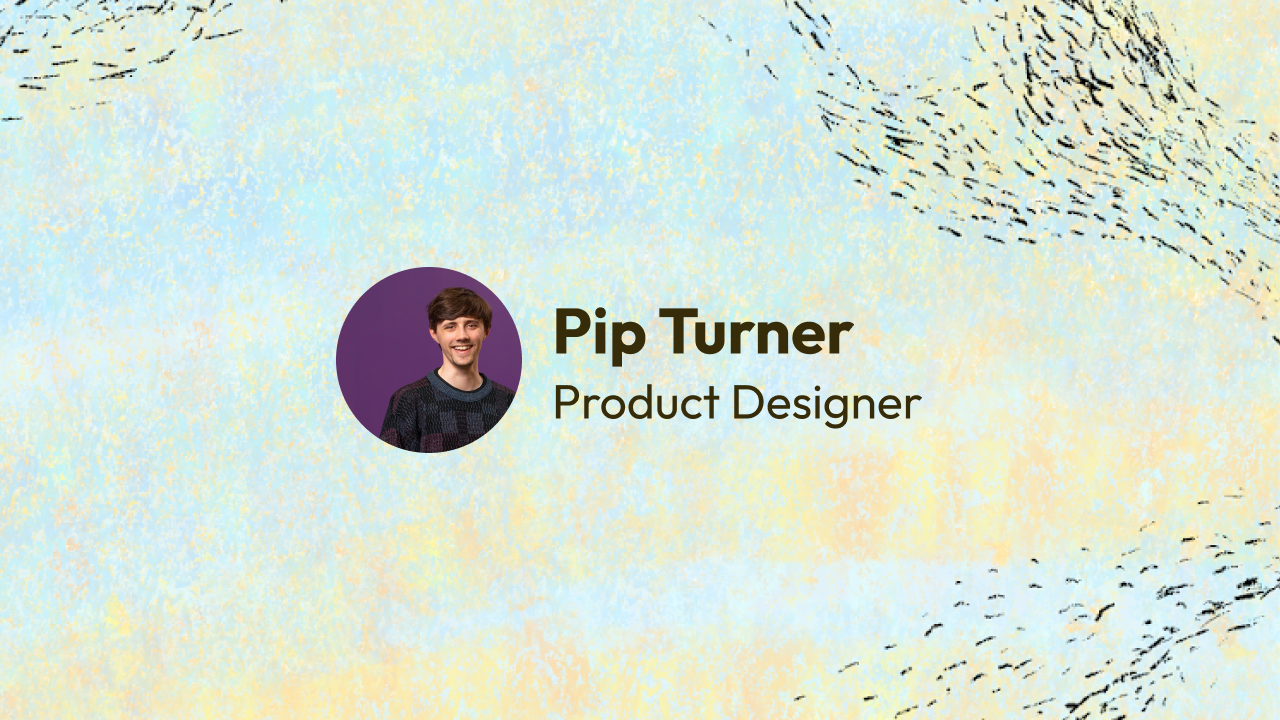
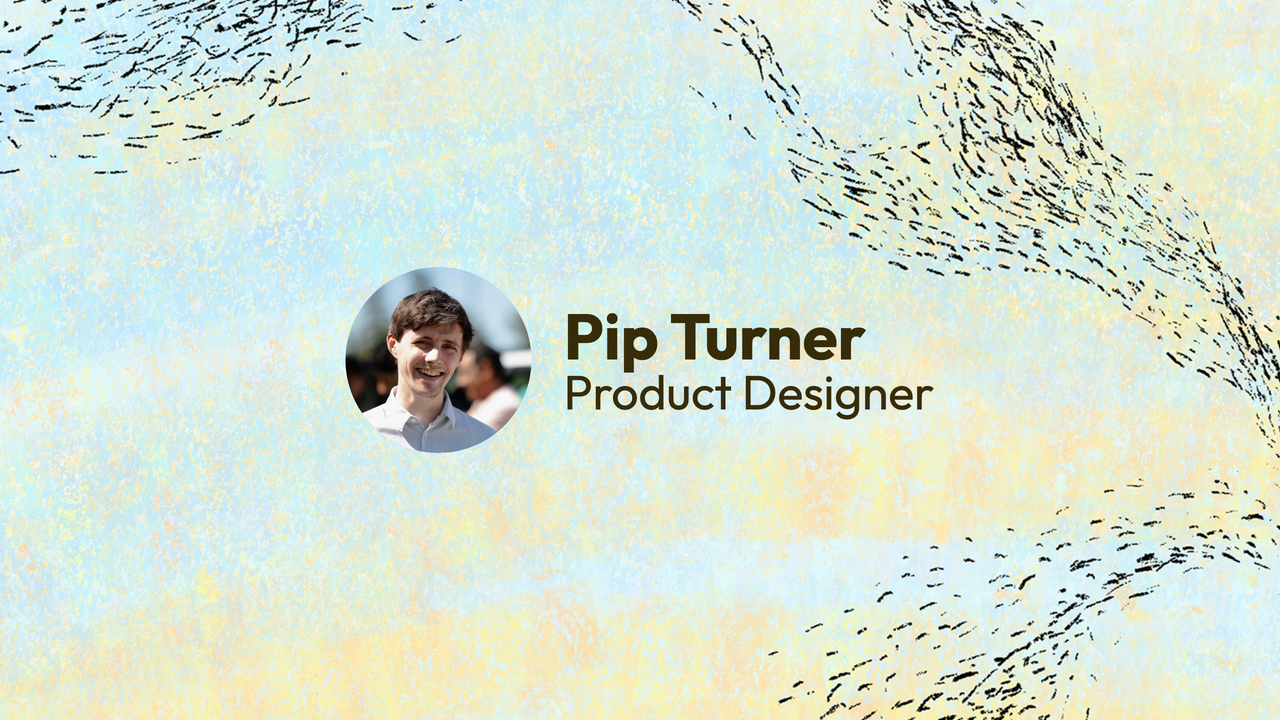
Add OG image generation script and regenerate preview
The link preview card still showed the old profile picture. It is now rendered
from a template that reuses the site header's own layout and type tokens, with
name, role, profile picture and background read from homepageData.json - so
regenerating after a content change is one command:

    python3 scripts/generate-og-image.py

Rendered in headless Chrome at 2x and downsampled to 1280x720 to keep the type
crisp. Note the background crop shifts slightly, as the template uses the
header's own object-position: center 60%.

diff --git a/scripts/og-image-template.html b/scripts/og-image-template.html
@@ -1,0 +1,81 @@
+<!doctype html>
+<html lang="en">
+<head>
+<meta charset="utf-8">
+<title>OG image</title>
+<link rel="preconnect" href="https://fonts.googleapis.com">
+<link rel="preconnect" href="https://fonts.gstatic.com" crossorigin>
+<link href="https://fonts.googleapis.com/css2?family=Outfit:wght@400;700&display=swap" rel="stylesheet">
+<style>
+  /* Values mirror styling/core.css so the card stays in step with the site header.
+     Keep these in sync if the header tokens change. */
+  :root {
+      --bg-color: #FFFDEF;
+      --text-color: #372C09;
+      --space-block: 32px;
+      --fs-page-title: 4rem;
+      --fs-role: 3rem;
+      --lh-display: 1;
+  }
+  * { margin: 0; padding: 0; box-sizing: border-box; }
+  html, body { width: 1280px; height: 720px; overflow: hidden; background: var(--bg-color); }
+
+  .card { position: relative; width: 1280px; height: 720px; overflow: hidden; }
+
+  .card-background { position: absolute; inset: 0; }
+  .card-background img {
+      width: 100%; height: 100%;
+      object-fit: cover;
+      object-position: center 60%;
+      display: block;
+  }
+
+  .card-content {
+      position: relative;
+      z-index: 1;
+      height: 100%;
+      display: flex;
+      flex-direction: row;
+      align-items: center;
+      justify-content: center;
+      gap: var(--space-block);
+  }
+
+  .card-avatar {
+      width: 186px; height: 186px;
+      border-radius: 999px;
+      object-fit: cover;
+      background-color: #5e3168;
+      flex-shrink: 0;
+  }
+
+  .card-name-role {
+      display: flex;
+      flex-direction: column;
+      align-items: flex-start;
+      gap: 0;
+      line-height: 1;
+  }
+  .card-name, .card-role {
+      font-family: 'Outfit', sans-serif;
+      line-height: var(--lh-display);
+      color: var(--text-color);
+      white-space: nowrap;
+  }
+  .card-name { font-weight: 700; font-size: var(--fs-page-title); }
+  .card-role { font-weight: 400; font-size: var(--fs-role); }
+</style>
+</head>
+<body>
+  <div class="card">
+    <div class="card-background"><img src="__BACKGROUND__" alt=""></div>
+    <div class="card-content">
+      <img class="card-avatar" src="__PROFILE__" alt="">
+      <div class="card-name-role">
+        <div class="card-name">__NAME__</div>
+        <div class="card-role">__ROLE__</div>
+      </div>
+    </div>
+  </div>
+</body>
+</html>

diff --git a/scripts/generate-og-image.py b/scripts/generate-og-image.py
@@ -1,0 +1,143 @@
+#!/usr/bin/env python3
+"""Regenerate images/ogimage.png — the preview card shown when the site is linked.
+
+The card is rendered from scripts/og-image-template.html, which reuses the site
+header's own layout and type tokens. Name, role, profile picture and background
+are read from data/homepageData.json, so swapping the profile picture and
+re-running this is enough to keep the preview in step with the homepage.
+
+Rendered with headless Chrome at 2x and downsampled, so the type stays crisp.
+Needs network access the first time in a while: the template pulls Outfit from
+Google Fonts.
+
+Usage:
+    python3 scripts/generate-og-image.py [--out images/ogimage.png] [--jpeg]
+
+    --jpeg  write a .jpg alongside/instead (much smaller; remember to update the
+            og:image meta tags in the HTML files if you switch format)
+"""
+
+import argparse
+import json
+import os
+import shutil
+import subprocess
+import sys
+import tempfile
+
+WIDTH, HEIGHT = 1280, 720
+SCALE = 2
+
+CHROME_CANDIDATES = [
+    os.environ.get("CHROME", ""),
+    "/Applications/Google Chrome.app/Contents/MacOS/Google Chrome",
+    "/Applications/Chromium.app/Contents/MacOS/Chromium",
+    "/Applications/Microsoft Edge.app/Contents/MacOS/Microsoft Edge",
+    shutil.which("google-chrome") or "",
+    shutil.which("chromium") or "",
+]
+
+
+def find_chrome():
+    for path in CHROME_CANDIDATES:
+        if path and os.path.exists(path):
+            return path
+    sys.exit(
+        "Could not find Chrome. Install it, or point CHROME at the binary:\n"
+        "  CHROME=/path/to/chrome python3 scripts/generate-og-image.py"
+    )
+
+
+def main():
+    root = os.path.dirname(os.path.dirname(os.path.abspath(__file__)))
+    ap = argparse.ArgumentParser()
+    ap.add_argument("--out", default=os.path.join("images", "ogimage.png"))
+    ap.add_argument("--jpeg", action="store_true", help="write JPEG instead of PNG")
+    ap.add_argument("--quality", type=int, default=88, help="JPEG quality (default 88)")
+    args = ap.parse_args()
+
+    data_path = os.path.join(root, "data", "homepageData.json")
+    with open(data_path) as fh:
+        header = json.load(fh)["header"]
+
+    for key in ("profileImage", "backgroundImage"):
+        asset = os.path.join(root, header[key])
+        if not os.path.exists(asset):
+            sys.exit("Missing asset referenced by homepageData.json: " + header[key])
+
+    template_path = os.path.join(root, "scripts", "og-image-template.html")
+    with open(template_path) as fh:
+        html = fh.read()
+
+    def esc(text):
+        return (text.replace("&", "&amp;").replace("<", "&lt;").replace(">", "&gt;"))
+
+    for token, value in (
+        ("__BACKGROUND__", header["backgroundImage"]),
+        ("__PROFILE__", header["profileImage"]),
+        ("__NAME__", esc(header["name"])),
+        ("__ROLE__", esc(header["role"])),
+    ):
+        html = html.replace(token, value)
+
+    # Rendered from the repo root so the asset paths in homepageData.json resolve as-is.
+    render_html = os.path.join(root, ".og-render.html")
+    shot = os.path.join(tempfile.mkdtemp(), "shot.png")
+    chrome = find_chrome()
+
+    try:
+        with open(render_html, "w") as fh:
+            fh.write(html)
+
+        subprocess.run(
+            [
+                chrome,
+                "--headless",
+                "--disable-gpu",
+                "--hide-scrollbars",
+                "--force-device-scale-factor=%d" % SCALE,
+                "--window-size=%d,%d" % (WIDTH, HEIGHT),
+                # give the webfont time to land before the shot is taken
+                "--virtual-time-budget=15000",
+                "--screenshot=" + shot,
+                "file://" + render_html,
+            ],
+            check=True,
+            capture_output=True,
+        )
+    except subprocess.CalledProcessError as exc:
+        sys.exit("Chrome failed:\n" + exc.stderr.decode("utf-8", "replace")[-2000:])
+    finally:
+        if os.path.exists(render_html):
+            os.remove(render_html)
+
+    out_path = os.path.join(root, args.out)
+    if args.jpeg:
+        out_path = os.path.splitext(out_path)[0] + ".jpg"
+
+    try:
+        from PIL import Image
+    except ImportError:
+        if args.jpeg or SCALE != 1:
+            sys.exit("Pillow is needed to downsample/convert: pip3 install Pillow")
+        shutil.move(shot, out_path)
+        print("Wrote", out_path)
+        return
+
+    img = Image.open(shot).convert("RGB")
+    if img.size != (WIDTH, HEIGHT):
+        img = img.resize((WIDTH, HEIGHT), Image.LANCZOS)
+
+    if args.jpeg:
+        img.save(out_path, quality=args.quality, optimize=True, progressive=True, subsampling=0)
+    else:
+        img.save(out_path, optimize=True)
+
+    print("Wrote %s (%dx%d, %.0f KB)" % (
+        os.path.relpath(out_path, root), img.width, img.height,
+        os.path.getsize(out_path) / 1024.0,
+    ))
+
+
+if __name__ == "__main__":
+    main()
